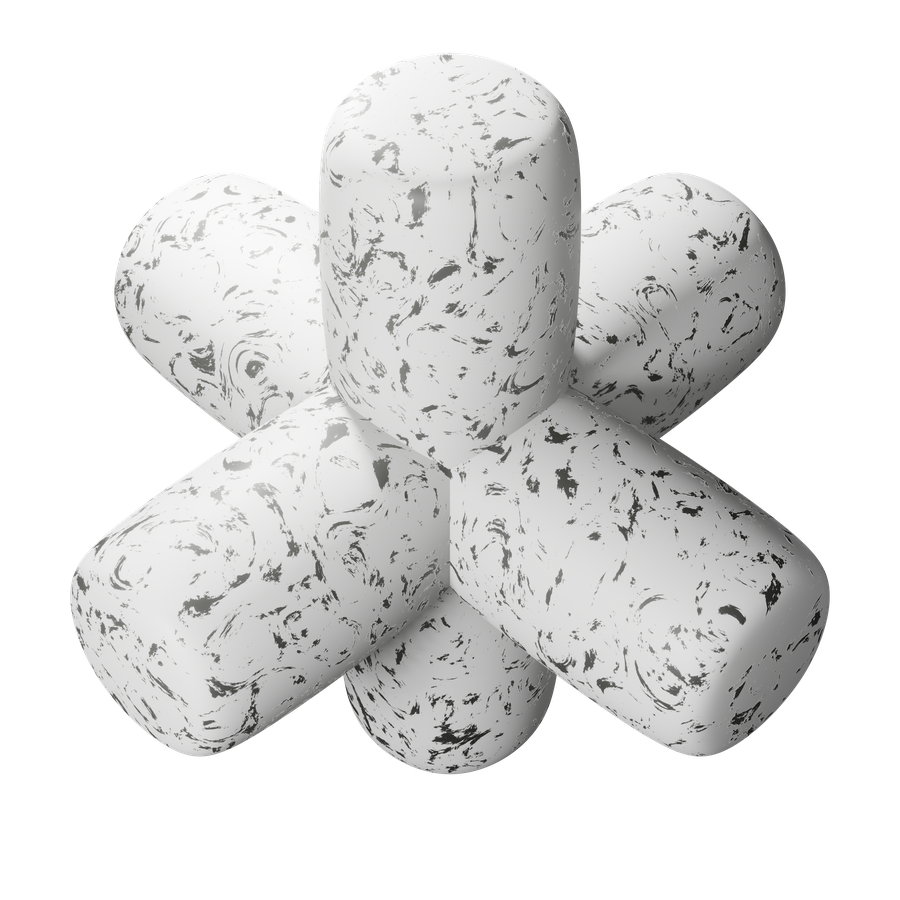
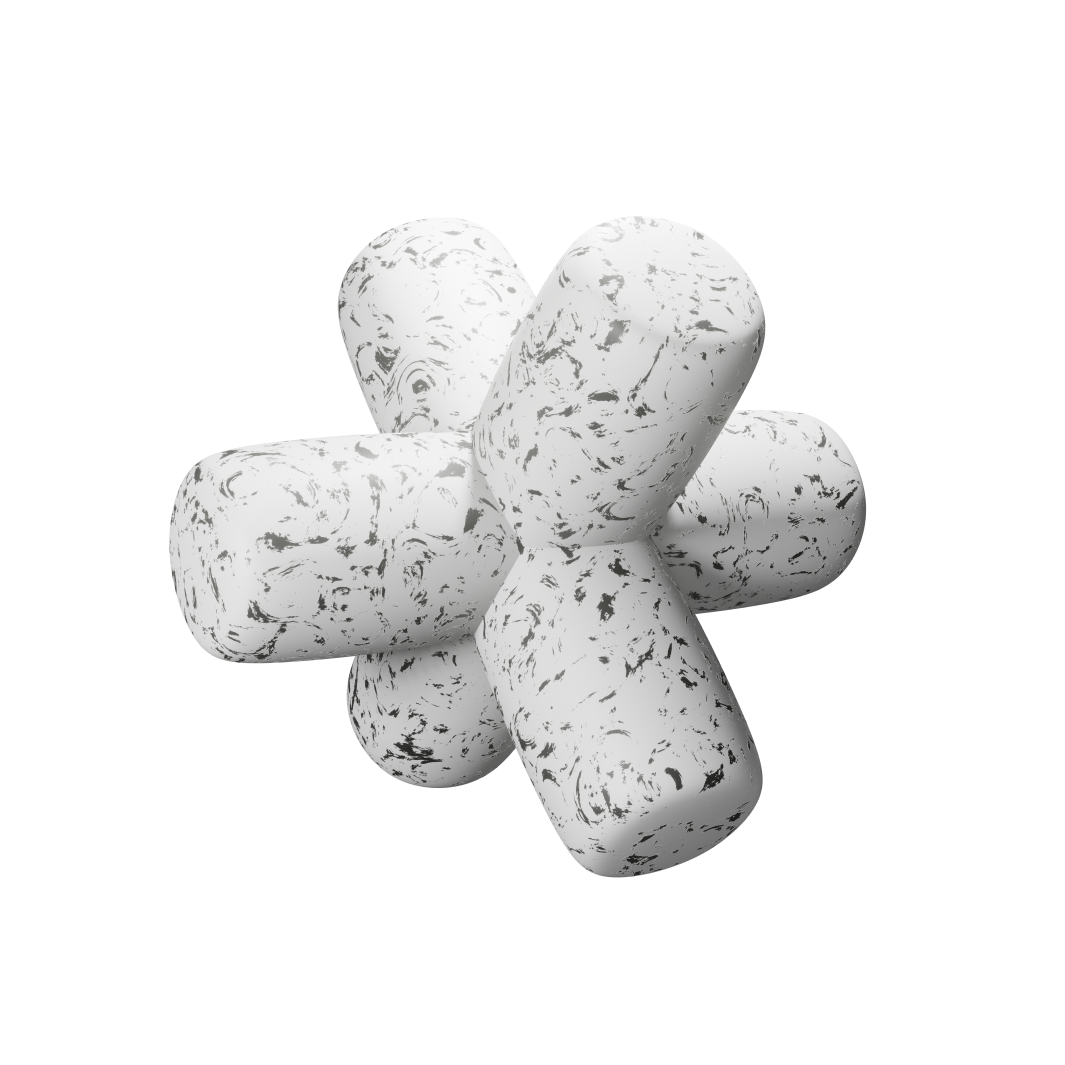
Маркетинг hero: точное соответствие Figma 78:96 (через Figma API)
Координаты, размеры, шрифты и картинки фигур взяты напрямую из макета:
- жгут 1006px (x585,y-785), цветок 532px (x191,y512) без поворота
- статистика компактная (боксы 187x114, шрифт 59), карточка top 492
- абзац 581px/25px, хлебные крошки top 31
- картинки swirl/flower — экспорт из узлов Figma

diff --git a/src/app/blocks/gen/marketingHeroHtml.ts b/src/app/blocks/gen/marketingHeroHtml.ts
@@ -1,35 +1,52 @@
-// Hero «Маркетинг» — резиновый, две группы (лево/право), вписан в первый экран.
-// Жгут (pink-swirl) стоит НАД буквами «ТИН» заголовка (как в Figma), верх уходит
-// под меню. Мраморный цветок и статы — крупные. Фигуры из Hero.svg (с прозрачностью).
+// Hero «Маркетинг» — точное соответствие Figma-фрейму 78:96 (1440×1024).
+// Все координаты, размеры и шрифты взяты напрямую из макета через Figma API.
+// Картинки фигур (pink-swirl, marble-flower) — экспорт из тех же узлов Figma.
+// Вся композиция в одной группе (натуральные координаты холста), правая пустая.
 
 export const marketingHeroLeftHtml = `
-  <div style="left: 65px; top: 12px; position: absolute; color: #9A9895; font-size: 23.42px; font-family: Inter; font-weight: 500; text-transform: uppercase; line-height: 20.14px; white-space: nowrap">Главная</div>
-  <div style="left: 180px; top: 11px; position: absolute; color: #9A9895; font-size: 23.42px; font-family: Inter; font-weight: 500; text-transform: uppercase; line-height: 20.14px">→</div>
-  <div style="left: 213px; top: 12px; position: absolute; color: #1C1C1C; font-size: 23.42px; font-family: Inter; font-weight: 500; text-transform: uppercase; line-height: 20.14px; white-space: nowrap">Маркетинг</div>
-  <div style="width: 1343px; left: 65px; top: 129px; position: absolute; color: #1C1C1C; font-size: 256.03px; font-family: Coolvetica; font-weight: 400; text-transform: uppercase; line-height: 220.18px; white-space: nowrap">Маркетинг</div>
-  <img style="width: 600px; height: 600px; left: 780px; top: -380px; position: absolute" src="/marketing-hero/pink-swirl.png" alt="" />
-  <div style="width: 770px; left: 65px; top: 470px; position: absolute; text-align: left"><span style="color: #1C1C1C; font-size: 30px; font-family: Inter; font-weight: 500; line-height: 26px">Мы помогаем как крупному, так и малому бизнесу решать задачи в Performance и Media маркетинге<br/><br/></span><span style="color: #1C1C1C; font-size: 30px; font-family: Inter; font-weight: 400; line-height: 26px">Детально погружаемся в бизнес и предлагаем стратегию и инструменты, которые работают именно в вашей нише. Создаем посадочные страницы, которые продают</span></div>
-  <img style="width: 540px; height: 540px; left: 430px; top: 530px; position: absolute; transform: rotate(30deg); transform-origin: top left" src="/marketing-hero/marble-flower.png" alt="" />
-  <div style="width: 290px; height: 175px; left: 65px; top: 795px; position: absolute; background: #1C1C1C; box-shadow: 0px 1.99px 1.99px rgba(0,0,0,0.25) inset; border-radius: 22px"></div>
-  <div style="left: 160px; top: 805px; position: absolute; color: white; font-size: 92px; font-family: Coolvetica; font-weight: 400; text-transform: uppercase; line-height: 79px">6+</div>
-  <div style="left: 105px; top: 905px; position: absolute; color: white; font-size: 34px; font-family: Inter; font-weight: 500; text-transform: uppercase; line-height: 29px; white-space: nowrap">ЛЕТ ОПЫТА</div>
-  <div style="width: 290px; height: 175px; left: 375px; top: 795px; position: absolute; background: #1C1C1C; box-shadow: 0px 1.99px 1.99px rgba(0,0,0,0.25) inset; border-radius: 22px"></div>
-  <div style="left: 410px; top: 805px; position: absolute; color: white; font-size: 92px; font-family: Coolvetica; font-weight: 400; text-transform: uppercase; line-height: 79px">400+</div>
-  <div style="left: 415px; top: 905px; position: absolute; color: white; font-size: 34px; font-family: Inter; font-weight: 500; text-transform: uppercase; line-height: 29px; white-space: nowrap">ОТЗЫВОВ</div>
-  <div style="width: 290px; height: 175px; left: 685px; top: 795px; position: absolute; background: #1C1C1C; box-shadow: 0px 1.99px 1.99px rgba(0,0,0,0.25) inset; border-radius: 22px"></div>
-  <div style="left: 722px; top: 805px; position: absolute; color: white; font-size: 92px; font-family: Coolvetica; font-weight: 400; text-transform: uppercase; line-height: 79px">200+</div>
-  <div style="left: 725px; top: 905px; position: absolute; color: white; font-size: 34px; font-family: Inter; font-weight: 500; text-transform: uppercase; line-height: 29px; white-space: nowrap">ПРОЕКТОВ</div>
-`;
+  <!-- хлебные крошки -->
+  <div style="left: 65px; top: 31px; position: absolute; color: #9A9895; font-size: 23.42px; font-family: Inter; font-weight: 500; text-transform: uppercase; line-height: 20.14px; white-space: nowrap">Главная</div>
+  <div style="left: 180px; top: 30px; position: absolute; color: #9A9895; font-size: 23.42px; font-family: Inter; font-weight: 500; text-transform: uppercase; line-height: 20.14px">→</div>
+  <div style="left: 213px; top: 31px; position: absolute; color: #1C1C1C; font-size: 23.42px; font-family: Inter; font-weight: 500; text-transform: uppercase; line-height: 20.14px; white-space: nowrap">Маркетинг</div>
 
-// Правая группа (ширина холста 660): карточка «Как мы работаем» + «Консультация».
-export const marketingHeroRightHtml = `
-  <div style="width: 571px; height: 300px; left: 24px; top: 540px; position: absolute; background: #F0F0F0; box-shadow: 0px 3.49px 3.49px rgba(0,0,0,0.25) inset; border-radius: 32.28px"></div>
-  <div style="width: 554px; height: 80px; left: 32px; top: 548px; position: absolute; background: #1C1C1C; border-radius: 23.83px"></div>
-  <div style="left: 102px; top: 562px; position: absolute; color: white; font-size: 51.65px; font-family: Coolvetica; font-weight: 400; text-transform: uppercase; line-height: 51.65px; white-space: nowrap">КАК МЫ РАБОТАЕМ</div>
-  <div style="width: 535px; left: 42px; top: 667px; position: absolute; text-align: justify; color: #1C1C1C; font-size: 22.08px; font-family: Inter; font-weight: 400; line-height: 18.99px">Для каждого нового клиента собираем отдельную команду экспертов. На старте погружаемся в бизнес, а после — постоянно анализируем данные, чтобы ничего не упустить</div>
-  <div style="width: 554px; height: 48px; left: 32px; top: 782px; position: absolute; background: white; box-shadow: 0px 3.49px 3.49px rgba(0,0,0,0.25); border-radius: 23.83px"></div>
-  <div style="left: 238px; top: 797.74px; position: absolute; color: #9A9895; font-size: 19.42px; font-family: Inter; font-weight: 400; line-height: 16.70px; white-space: nowrap">оставить заявку</div>
-  <div style="width: 259px; height: 52.28px; left: 336px; top: 903px; position: absolute; background: linear-gradient(90deg, #F55D1C 0%, #1C1C1C 74%); border-radius: 77.23px; outline: 2px #F55D1C solid; outline-offset: -2px; display: flex; justify-content: center; align-items: center">
+  <!-- заголовок -->
+  <div style="width: 1343px; left: 65px; top: 129px; position: absolute; color: #1C1C1C; font-size: 256.03px; font-family: Coolvetica; font-weight: 400; text-transform: uppercase; line-height: 220.18px; white-space: nowrap">Маркетинг</div>
+
+  <!-- жгут (3D-фигура) сверху, поверх текста -->
+  <img style="width: 1006px; height: 1006px; left: 585px; top: -785px; position: absolute; z-index: 1" src="/marketing-hero/pink-swirl.png" alt="" />
+
+  <!-- абзац -->
+  <div style="width: 581px; left: 65px; top: 406px; position: absolute; color: #1C1C1C; font-family: Inter; font-size: 25.27px; line-height: 21.73px"><span style="font-weight: 500">Мы помогаем как крупному, так и малому бизнесу решать задачи в Performance и Media маркетинге<br/><br/></span><span style="font-weight: 400">Детально погружаемся в бизнес и предлагаем стратегию и инструменты, которые работают именно в вашей нише. Создаем посадочные страницы, которые продают</span></div>
+
+  <!-- мраморный цветок -->
+  <img style="width: 532px; height: 532px; left: 191px; top: 512px; position: absolute" src="/marketing-hero/marble-flower.png" alt="" />
+
+  <!-- статистика: 3 бокса -->
+  <div style="width: 187px; height: 114px; left: 59px; top: 841px; position: absolute; background: #1C1C1C; box-shadow: 0px 1.99px 1.99px rgba(0,0,0,0.25) inset; border-radius: 15px"></div>
+  <div style="left: 122px; top: 853px; position: absolute; color: white; font-size: 59.31px; font-family: Coolvetica; font-weight: 400; text-transform: uppercase; line-height: 51.01px">6+</div>
+  <div style="left: 88px; top: 916px; position: absolute; color: white; font-size: 23.42px; font-family: Inter; font-weight: 500; text-transform: uppercase; line-height: 20.14px; white-space: nowrap">ЛЕТ ОПЫТА</div>
+
+  <div style="width: 187px; height: 114px; left: 259px; top: 841px; position: absolute; background: #1C1C1C; box-shadow: 0px 1.99px 1.99px rgba(0,0,0,0.25) inset; border-radius: 15px"></div>
+  <div style="left: 294px; top: 853px; position: absolute; color: white; font-size: 59.31px; font-family: Coolvetica; font-weight: 400; text-transform: uppercase; line-height: 51.01px">400+</div>
+  <div style="left: 297px; top: 916px; position: absolute; color: white; font-size: 23.42px; font-family: Inter; font-weight: 500; text-transform: uppercase; line-height: 20.14px; white-space: nowrap">ОТЗЫВОВ</div>
+
+  <div style="width: 187px; height: 114px; left: 459px; top: 841px; position: absolute; background: #1C1C1C; box-shadow: 0px 1.99px 1.99px rgba(0,0,0,0.25) inset; border-radius: 15px"></div>
+  <div style="left: 494px; top: 853px; position: absolute; color: white; font-size: 59.31px; font-family: Coolvetica; font-weight: 400; text-transform: uppercase; line-height: 51.01px">200+</div>
+  <div style="left: 492px; top: 916px; position: absolute; color: white; font-size: 23.42px; font-family: Inter; font-weight: 500; text-transform: uppercase; line-height: 20.14px; white-space: nowrap">ПРОЕКТОВ</div>
+
+  <!-- карточка «Как мы работаем» -->
+  <div style="width: 571px; height: 300px; left: 804px; top: 492px; position: absolute; background: #F0F0F0; box-shadow: 0px 3.49px 3.49px rgba(0,0,0,0.25) inset; border-radius: 32px"></div>
+  <div style="width: 554px; height: 80px; left: 812px; top: 500px; position: absolute; background: #1C1C1C; border-radius: 24px"></div>
+  <div style="left: 882px; top: 514px; position: absolute; color: white; font-size: 51.65px; font-family: Coolvetica; font-weight: 400; text-transform: uppercase; line-height: 51.65px; white-space: nowrap">КАК МЫ РАБОТАЕМ</div>
+  <div style="width: 535px; left: 822px; top: 619px; position: absolute; color: #1C1C1C; font-size: 22.08px; font-family: Inter; font-weight: 400; line-height: 18.99px">Для каждого нового клиента собираем отдельную команду экспертов. На старте погружаемся в бизнес, а после — постоянно анализируем данные, чтобы ничего не упустить</div>
+  <div style="width: 554px; height: 48px; left: 812px; top: 734px; position: absolute; background: white; box-shadow: 0px 3.49px 3.49px rgba(0,0,0,0.25); border-radius: 24px"></div>
+  <div style="left: 1018px; top: 750px; position: absolute; color: #9A9895; font-size: 19.42px; font-family: Inter; font-weight: 400; line-height: 16.70px; white-space: nowrap">оставить заявку</div>
+
+  <!-- кнопка Консультация -->
+  <div style="width: 259px; height: 52px; left: 1116px; top: 903px; position: absolute; background: linear-gradient(90deg, #F55D1C 0%, #1C1C1C 74%); border-radius: 77px; outline: 2px #F55D1C solid; outline-offset: -2px; display: flex; justify-content: center; align-items: center">
     <div style="text-align: center; color: white; font-size: 31.27px; font-family: Inter; font-weight: 400; line-height: 26.89px">Консультация</div>
   </div>
 `;
+
+// Правая группа больше не используется — вся вёрстка в натуральных координатах слева.
+export const marketingHeroRightHtml = ``;